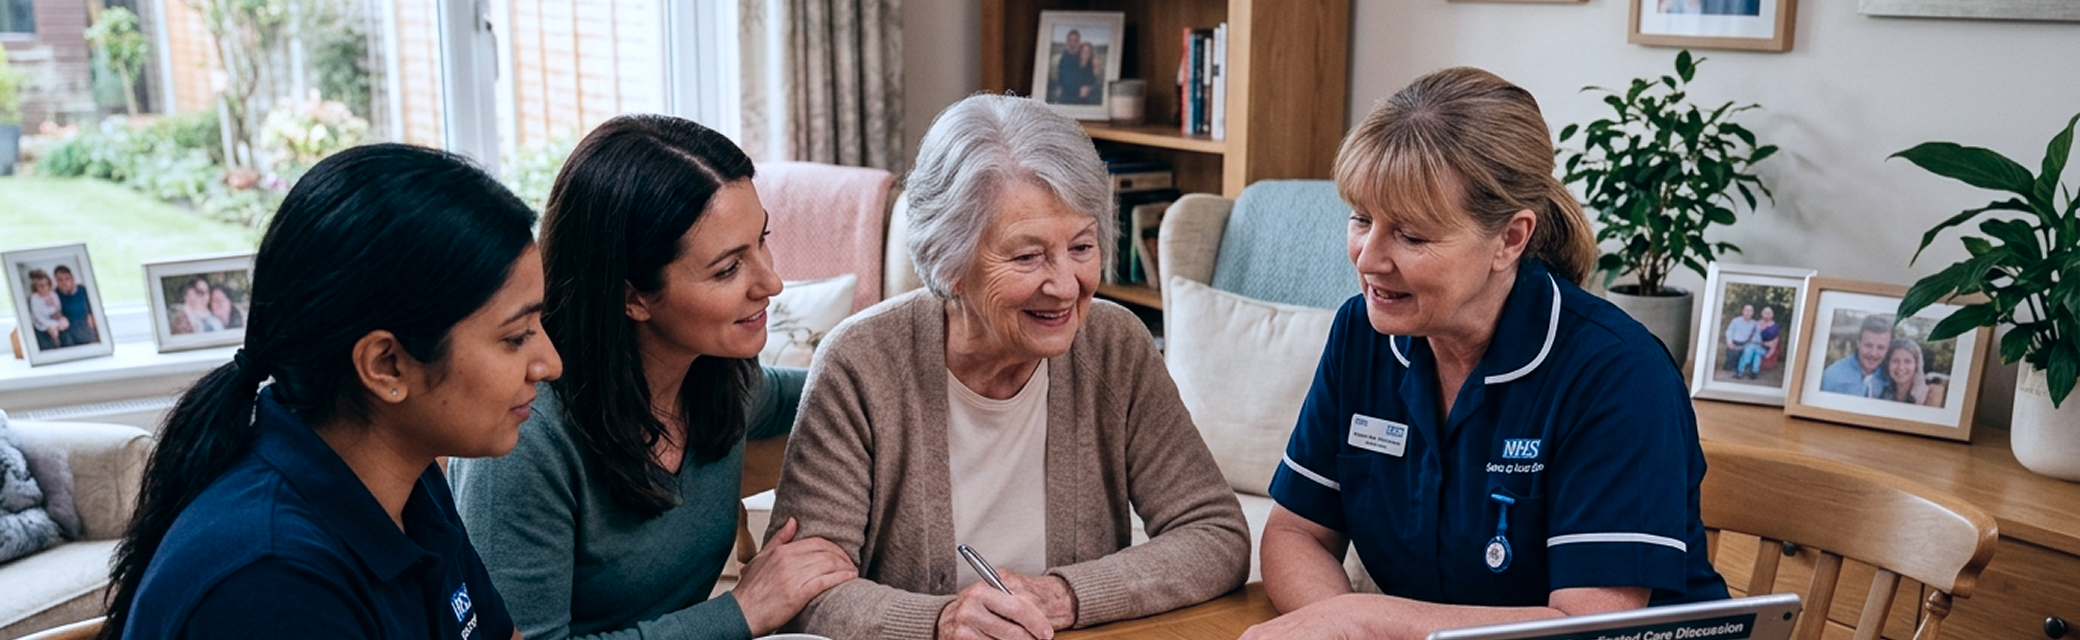
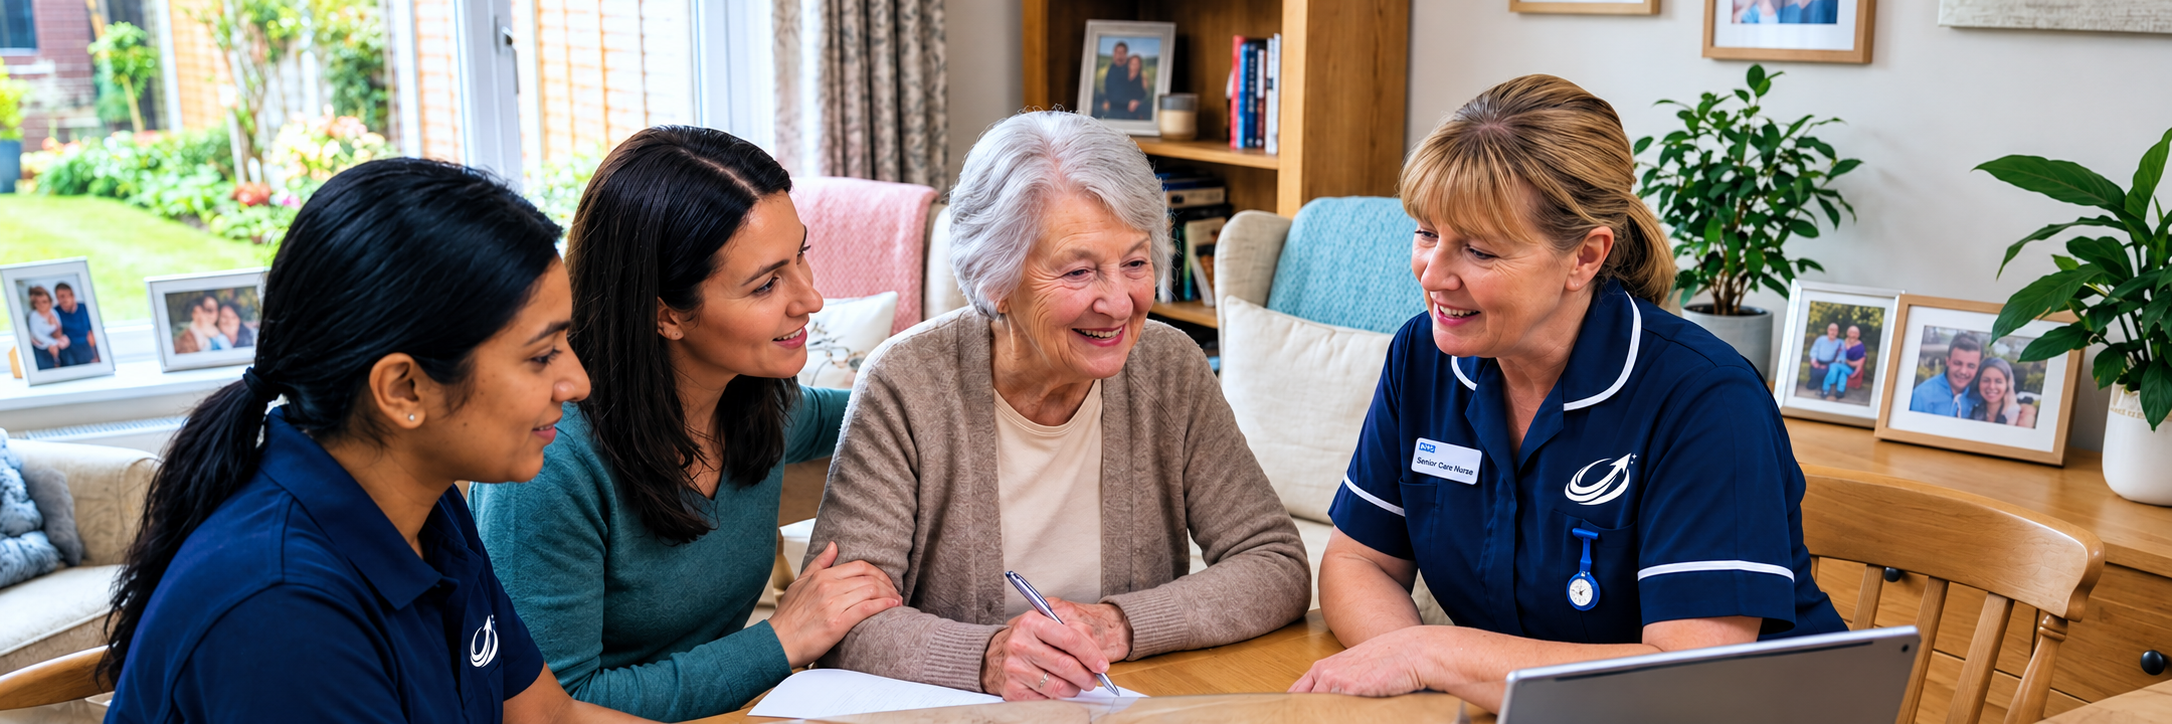
COMMIT

diff --git a/index.html b/index.html
@@ -3,7 +3,10 @@
 <head>
   <meta charset="UTF-8">
   <meta name="viewport" content="width=device-width, initial-scale=1.0">
-  <title>Novaedge Services Limited - Home Care in Huddersfield</title>
+  <title>Novaedge Services Limited - Home Care in Huddersfield & Kirklees</title>
+  <meta name="title" content="Novaedge Services Limited - Home Care in Huddersfield & Kirklees">
+  <meta name="description" content="Novaedge Services Limited is a professional domiciliary care provider based in Huddersfield & Kirklees, England, providing personalized home care services.">
+  <link rel="canonical" href="https://www.novaedgelimited.com/">
   <link rel="icon" type="image/png" href="favicon.png">
   <link rel="preconnect" href="https://fonts.googleapis.com">
   <link rel="preconnect" href="https://fonts.gstatic.com" crossorigin>

diff --git a/safeguarding.html b/safeguarding.html
@@ -4,6 +4,9 @@
   <meta charset="UTF-8">
   <meta name="viewport" content="width=device-width, initial-scale=1.0">
   <title>Safeguarding Adults - Novaedge Services Limited</title>
+  <meta name="title" content="Novaedge Services Limited - Home Care in Huddersfield & Kirklees">
+  <meta name="description" content="Novaedge Services Limited is a professional domiciliary care provider based in Huddersfield & Kirklees, England, providing personalized home care services.">
+  <link rel="canonical" href="https://www.novaedgelimited.com/safeguarding">
   <link rel="icon" type="image/png" href="favicon.png">
   <link rel="preconnect" href="https://fonts.googleapis.com">
   <link rel="preconnect" href="https://fonts.gstatic.com" crossorigin>

diff --git a/areas-we-cover.html b/areas-we-cover.html
@@ -4,6 +4,9 @@
   <meta charset="UTF-8">
   <meta name="viewport" content="width=device-width, initial-scale=1.0">
   <title>Areas We Cover - Novaedge Services Limited</title>
+  <meta name="title" content="Novaedge Services Limited - Home Care in Huddersfield & Kirklees">
+  <meta name="description" content="Novaedge Services Limited is a professional domiciliary care provider based in Huddersfield & Kirklees, England, providing personalized home care services.">
+  <link rel="canonical" href="https://www.novaedgelimited.com/areas-we-cover">
   <link rel="icon" type="image/png" href="favicon.png">
   <link rel="preconnect" href="https://fonts.googleapis.com">
   <link rel="preconnect" href="https://fonts.gstatic.com" crossorigin>

diff --git a/privacy-policy.html b/privacy-policy.html
@@ -4,6 +4,9 @@
   <meta charset="UTF-8">
   <meta name="viewport" content="width=device-width, initial-scale=1.0">
   <title>Privacy Policy - Novaedge Services Limited</title>
+  <meta name="title" content="Novaedge Services Limited - Home Care in Huddersfield & Kirklees">
+  <meta name="description" content="Novaedge Services Limited is a professional domiciliary care provider based in Huddersfield & Kirklees, England, providing personalized home care services.">
+  <link rel="canonical" href="https://www.novaedgelimited.com/privacy-policy">
   <link rel="icon" type="image/png" href="favicon.png">
   <link rel="preconnect" href="https://fonts.googleapis.com">
   <link rel="preconnect" href="https://fonts.gstatic.com" crossorigin>

diff --git a/why-choose-us.html b/why-choose-us.html
@@ -4,6 +4,9 @@
   <meta charset="UTF-8">
   <meta name="viewport" content="width=device-width, initial-scale=1.0">
   <title>Why Choose Us - Novaedge Services Limited</title>
+  <meta name="title" content="Novaedge Services Limited - Home Care in Huddersfield & Kirklees">
+  <meta name="description" content="Novaedge Services Limited is a professional domiciliary care provider based in Huddersfield & Kirklees, England, providing personalized home care services.">
+  <link rel="canonical" href="https://www.novaedgelimited.com/why-choose-us">
   <link rel="icon" type="image/png" href="favicon.png">
   <link rel="preconnect" href="https://fonts.googleapis.com">
   <link rel="preconnect" href="https://fonts.gstatic.com" crossorigin>

diff --git a/get-in-touch.html b/get-in-touch.html
@@ -4,6 +4,9 @@
   <meta charset="UTF-8">
   <meta name="viewport" content="width=device-width, initial-scale=1.0">
   <title>Get in Touch - Novaedge Services Limited</title>
+  <meta name="title" content="Novaedge Services Limited - Home Care in Huddersfield & Kirklees">
+  <meta name="description" content="Novaedge Services Limited is a professional domiciliary care provider based in Huddersfield & Kirklees, England, providing personalized home care services.">
+  <link rel="canonical" href="https://www.novaedgelimited.com/get-in-touch">
   <link rel="icon" type="image/png" href="favicon.png">
   <link rel="preconnect" href="https://fonts.googleapis.com">
   <link rel="preconnect" href="https://fonts.gstatic.com" crossorigin>

diff --git a/referrals.html b/referrals.html
@@ -4,6 +4,9 @@
   <meta charset="UTF-8">
   <meta name="viewport" content="width=device-width, initial-scale=1.0">
   <title>Make a Referral - Novaedge Services Limited</title>
+  <meta name="title" content="Novaedge Services Limited - Home Care in Huddersfield & Kirklees">
+  <meta name="description" content="Novaedge Services Limited is a professional domiciliary care provider based in Huddersfield & Kirklees, England, providing personalized home care services.">
+  <link rel="canonical" href="https://www.novaedgelimited.com/referrals">
   <link rel="icon" type="image/png" href="favicon.png">
   <link rel="preconnect" href="https://fonts.googleapis.com">
   <link rel="preconnect" href="https://fonts.gstatic.com" crossorigin>

diff --git a/terms-of-use.html b/terms-of-use.html
@@ -4,6 +4,9 @@
   <meta charset="UTF-8">
   <meta name="viewport" content="width=device-width, initial-scale=1.0">
   <title>Terms of Use - Novaedge Services Limited</title>
+  <meta name="title" content="Novaedge Services Limited - Home Care in Huddersfield & Kirklees">
+  <meta name="description" content="Novaedge Services Limited is a professional domiciliary care provider based in Huddersfield & Kirklees, England, providing personalized home care services.">
+  <link rel="canonical" href="https://www.novaedgelimited.com/terms-of-use">
   <link rel="icon" type="image/png" href="favicon.png">
   <link rel="preconnect" href="https://fonts.googleapis.com">
   <link rel="preconnect" href="https://fonts.gstatic.com" crossorigin>

diff --git a/how-we-work.html b/how-we-work.html
@@ -4,6 +4,9 @@
   <meta charset="UTF-8">
   <meta name="viewport" content="width=device-width, initial-scale=1.0">
   <title>How We Work - Novaedge Services Limited</title>
+  <meta name="title" content="Novaedge Services Limited - Home Care in Huddersfield & Kirklees">
+  <meta name="description" content="Novaedge Services Limited is a professional domiciliary care provider based in Huddersfield & Kirklees, England, providing personalized home care services.">
+  <link rel="canonical" href="https://www.novaedgelimited.com/how-we-work">
   <link rel="icon" type="image/png" href="favicon.png">
   <link rel="preconnect" href="https://fonts.googleapis.com">
   <link rel="preconnect" href="https://fonts.gstatic.com" crossorigin>

diff --git a/about.html b/about.html
@@ -4,6 +4,9 @@
   <meta charset="UTF-8">
   <meta name="viewport" content="width=device-width, initial-scale=1.0">
   <title>About Us - Novaedge Services Limited</title>
+  <meta name="title" content="Novaedge Services Limited - Home Care in Huddersfield & Kirklees">
+  <meta name="description" content="Novaedge Services Limited is a professional domiciliary care provider based in Huddersfield & Kirklees, England, providing personalized home care services.">
+  <link rel="canonical" href="https://www.novaedgelimited.com/about">
   <link rel="icon" type="image/png" href="favicon.png">
   <link rel="preconnect" href="https://fonts.googleapis.com">
   <link rel="preconnect" href="https://fonts.gstatic.com" crossorigin>
